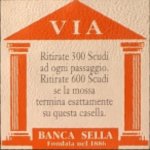
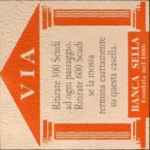
now the player can move and the board doesn't disappear or blip

diff --git a/lib/board.py b/lib/board.py
@@ -22,7 +22,7 @@ class Board:
         #create corner1
         curr_x = WIDTH - 10 - CORNER_WIDTH
         curr_y = HEIGHT - 10 - CORNER_HEIGHT
-        corner1 = Cell(None, None, None, curr_x, curr_y, self.corner1Image, 90, True)
+        corner1 = Cell(None, None, None, curr_x, curr_y, self.corner1Image, 0, True)
         self.cells.append(corner1)
         
         #create bottom side
@@ -38,7 +38,7 @@ class Board:
         
         #create corner3
         curr_y = curr_y-CORNER_HEIGHT        
-        corner3 = Cell(None, None, None, curr_x, curr_y, self.corner3Image, -90, True)
+        corner3 = Cell(None, None, None, curr_x, curr_y, self.corner3Image, 180, True)
         self.cells.append(corner3)
         
         #create top side
@@ -47,7 +47,7 @@ class Board:
         
         #create corner4
         curr_x = curr_x + CELL_WIDTH
-        corner4 = Cell(None, None, None, curr_x, curr_y, self.corner4Image, -90, True)
+        corner4 = Cell(None, None, None, curr_x, curr_y, self.corner4Image, 90, True)
         self.cells.append(corner4)
         
         #create right side
@@ -98,24 +98,27 @@ class Board:
 
     def drawPlayerCar(self, screen, player, playerNumber, totalPlayers):
         cell = self.cells[player.position]
+        #old_cell = self.cells[player.old_position]
 
         if (cell.angle == 0):
-            car_x = 5
-            car_y = ((CELL_HEIGHT // totalPlayers) * playerNumber)
+            car_x = cell.cell_x + 5
+            car_y = cell.cell_y + ((CELL_HEIGHT // totalPlayers) * playerNumber)
             player.car.rotate(90)
-        elif(cell.angle == 180):
-            car_x = 5
-            car_y = ((CELL_HEIGHT // totalPlayers) * playerNumber)
-            player.car.rotate(0)
-        elif (cell.angle == 90):
-            car_x = ((CELL_WIDTH // totalPlayers) * playerNumber)
-            car_y = 5
-            player.car.rotate(-90)
         elif(cell.angle == -90):
-            car_x = ((CELL_WIDTH // totalPlayers) * playerNumber)
-            car_y = 5
-            player.car.rotate(-180)
+            car_x = cell.cell_x + ((CELL_WIDTH // totalPlayers) * playerNumber)
+            car_y = cell.cell_y + 5
+            player.car.rotate(0)
+        elif(cell.angle == 180):
+            car_x = cell.cell_x + 5
+            car_y = cell.cell_y + ((CELL_HEIGHT // totalPlayers) * playerNumber)
+            player.car.rotate(-90)
+        elif (cell.angle == 90):
+            car_x = cell.cell_x + ((CELL_WIDTH // totalPlayers) * playerNumber)
+            car_y = cell.cell_y + 5
+            player.car.rotate(180)
+        
 
         player.car.move(car_x, car_y)
-        player.car.draw(cell.surface)
-        screen.blit(cell.surface, (cell.cell_x, cell.cell_y))
+        player.car.draw(screen)
+        #old_cell.draw(screen)
+        #screen.blit(cell.surface, (cell.cell_x, cell.cell_y))

diff --git a/lib/game.py b/lib/game.py
@@ -33,8 +33,7 @@ class Game:
             self.board.drawPlayerCar(self.screen, player, index, len(self.players))
 
         while self.running:
-            self.clock.tick(FPS)
-            pygame.display.update()
+            self.clock.tick(FPS)            
 
             for event in pygame.event.get():
                 if event.type == pygame.QUIT:
@@ -44,13 +43,18 @@ class Game:
                     if event.ui_element == self.gameUI.launchDice:
                         score = roll()
                         self.dice.updateDice(score,self.screen)
-                        #self.players[0].move(score[0] + score[1])
-                        self.players[0].move(1)
-                        self.board.drawPlayerCar(self.screen, self.players[0], index, len(self.players))
+                        self.players[0].move(score[0] + score[1])
+                        #self.players[0].move(1)
+                        #self.board.drawPlayerCar(self.screen, self.players[0], index, len(self.players))
+                        #self.board.draw(self.screen)
 
-                self.gameUI.manager.process_events(event)
-
-            time_delta = self.clock.tick(FPS) / 1000.0
-            self.gameUI.manager.update(time_delta)
+                self.gameUI.manager.process_events(event)            
             
+            self.board.draw(self.screen)
+            for player in self.players:
+                self.board.drawPlayerCar(self.screen, player, index, len(self.players))
+            
+            time_delta = self.clock.tick(FPS) / 1000.0
+            self.gameUI.manager.update(time_delta)            
             self.gameUI.manager.draw_ui(self.screen)
+            pygame.display.update()

diff --git a/lib/cell.py b/lib/cell.py
@@ -40,17 +40,25 @@ class Cell:
         price_y = cell_color_y - stock_price.get_height() - 10
         self.surface.blit(stock_price, (price_x, price_y))
 
-        if(self.angle != 0):
-            self.surface = pygame.transform.rotate(self.surface, self.angle)
+        surfaceRotated = None
 
-        screen.blit(self.surface, (self.cell_x, self.cell_y))
+        if(self.angle != 0):        
+            surfaceRotated = pygame.transform.rotate(self.surface, self.angle)
+            
+        if(surfaceRotated is not None):
+            screen.blit(surfaceRotated, (self.cell_x, self.cell_y))
+        else:
+            screen.blit(self.surface, (self.cell_x, self.cell_y))
 
     def drawCellImage(self, screen):
         # Disponi l'immagine sulla finestra
-        #self.surface.blit(self.cellImage, (0, 0))
-        if(self.angle != 0):
-            self.surface.blit(self.cellImage, (0, 0))
-            self.surface = pygame.transform.rotate(self.surface, self.angle)
-            screen.blit(self.surface, (self.cell_x, self.cell_y))
+        self.surface.blit(self.cellImage, (0, 0))
+        
+        surfaceRotated = None
+        if(self.angle != 0):            
+            surfaceRotated = pygame.transform.rotate(self.surface, self.angle)
+            
+        if(surfaceRotated is not None):
+            screen.blit(surfaceRotated, (self.cell_x, self.cell_y))
         else:
-            screen.blit(self.cellImage, (self.cell_x, self.cell_y))
+            screen.blit(self.surface, (self.cell_x, self.cell_y))
